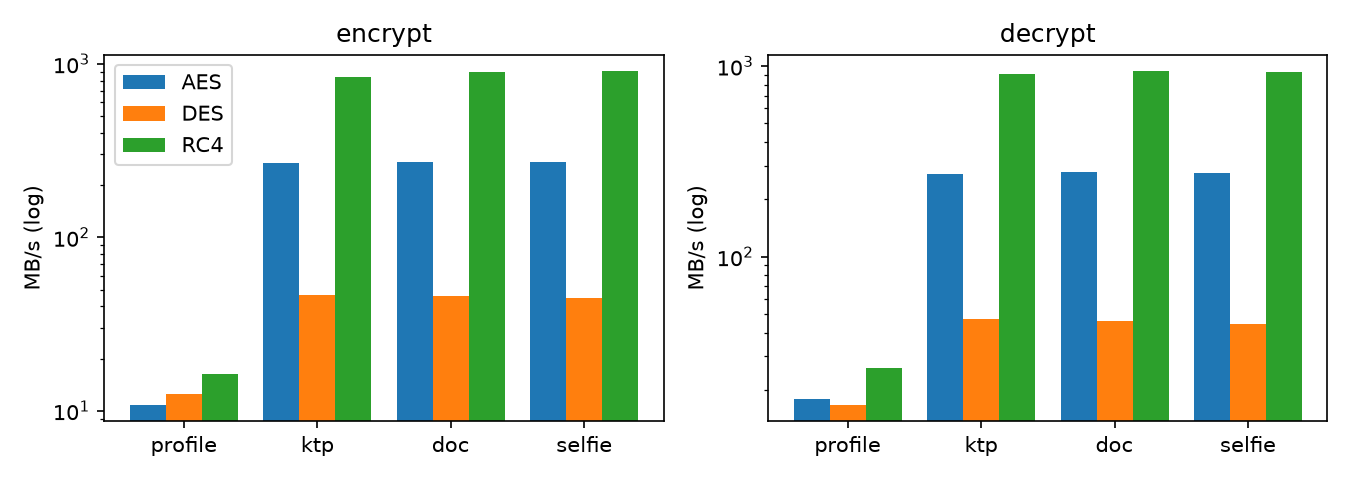
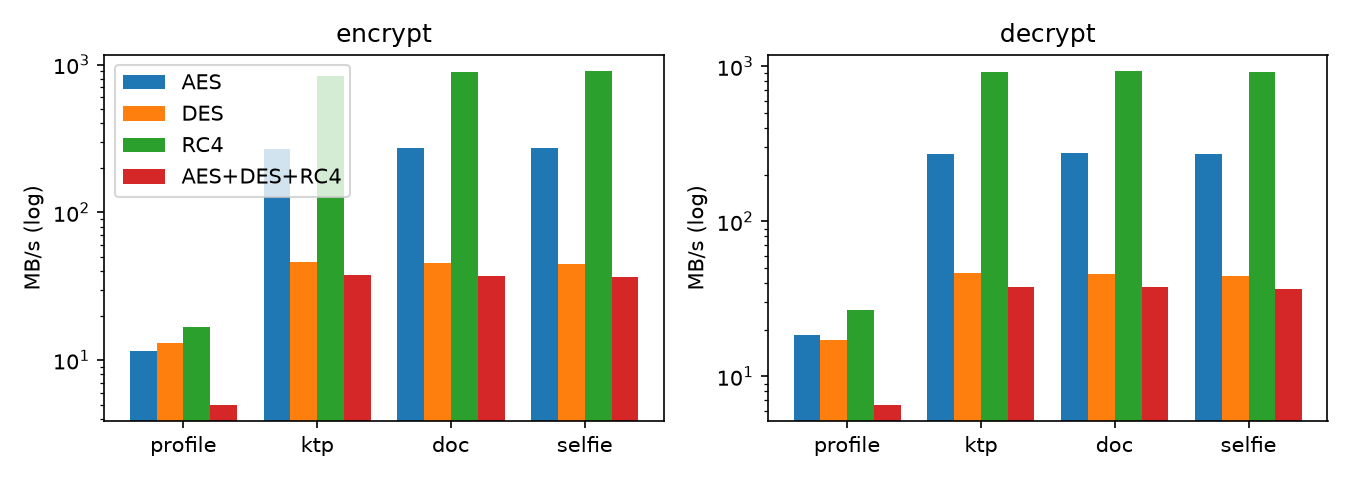
layered AES+DES+RC4 mode with tests and   benchmark to really see the differences

diff --git a/BE/ciphers.py b/BE/ciphers.py
@@ -3,6 +3,8 @@ Encrypt and decrypt data with AES, DES or RC4.
 
 Every encrypted blob looks like this:
     magic | cipher_id | salt | iv/nonce | ciphertext | tag
+A layered blob (e.g. "aes+des+rc4") wraps one blob inside the next:
+    magic_layered | layer_count | outer blob( ... inner blob(data) )
 
 Each object gets its own key, made from MASTER_KEY and a random salt.
 The tag also covers user_id and purpose, so a blob copied to another
@@ -18,6 +20,8 @@ from Crypto.Hash import SHA256
 from Crypto.Random import get_random_bytes
 
 MAGIC = b"\xc5\x01"
+MAGIC_LAYERED = b"\xc5\x02"  # blob made of several ciphers on top of each other
+MAX_LAYERS = 8
 SALT_LEN = 16
 HEADER_FIXED = len(MAGIC) + 1 + SALT_LEN
 
@@ -112,7 +116,7 @@ CIPHERS = {c.name: c for c in (AesGcm, DesCtr, Rc4Drop)}
 _BY_ID = {c.id: c for c in CIPHERS.values()}
 
 
-def encrypt(cipher: str, data: bytes, *, user_id: int, purpose: str) -> bytes:
+def _encrypt_one(cipher: str, data: bytes, user_id: int, purpose: str) -> bytes:
     c = CIPHERS[cipher]
     salt, iv = get_random_bytes(SALT_LEN), get_random_bytes(c.iv_len)
     header = MAGIC + bytes([c.id]) + salt + iv
@@ -121,7 +125,7 @@ def encrypt(cipher: str, data: bytes, *, user_id: int, purpose: str) -> bytes:
     return header + ct + tag
 
 
-def decrypt(blob: bytes, *, user_id: int, purpose: str) -> bytes:
+def _decrypt_one(blob: bytes, user_id: int, purpose: str) -> bytes:
     if len(blob) < HEADER_FIXED + 1 or blob[:2] != MAGIC or blob[2] not in _BY_ID:
         raise IntegrityError("Unknown blob format")
     c = _BY_ID[blob[2]]
@@ -134,7 +138,32 @@ def decrypt(blob: bytes, *, user_id: int, purpose: str) -> bytes:
     return c.decrypt(key, iv, _aad(header, user_id, purpose), ct, tag)
 
 
+def encrypt(cipher: str, data: bytes, *, user_id: int, purpose: str) -> bytes:
+    """cipher is one name ("aes") or layers joined by "+" ("aes+des+rc4", first = innermost)."""
+    if "+" not in cipher:
+        return _encrypt_one(cipher, data, user_id, purpose)
+    names = cipher.split("+")
+    blob = data
+    for i, name in enumerate(names):
+        blob = _encrypt_one(name, blob, user_id, f"{purpose}|layer{i}of{len(names)}")
+    return MAGIC_LAYERED + bytes([len(names)]) + blob
+
+
+def decrypt(blob: bytes, *, user_id: int, purpose: str) -> bytes:
+    if blob[:2] != MAGIC_LAYERED:
+        return _decrypt_one(blob, user_id, purpose)
+    if len(blob) < 4 or not 1 <= blob[2] <= MAX_LAYERS:
+        raise IntegrityError("Bad layer count")
+    n, data = blob[2], blob[3:]
+    # Each layer's label contains its position and the total, so a changed count fails here.
+    for i in reversed(range(n)):
+        data = _decrypt_one(data, user_id, f"{purpose}|layer{i}of{n}")
+    return data
+
+
 def overhead(cipher: str, plain_len: int) -> int:
-    """Extra bytes added to the data (header + tag)."""
+    """Extra bytes added to the data (headers + tags)."""
+    if "+" in cipher:
+        return len(MAGIC_LAYERED) + 1 + sum(overhead(n, 0) for n in cipher.split("+"))
     c = CIPHERS[cipher]
     return HEADER_FIXED + c.iv_len + c.tag_len

diff --git a/bench/benchmark.py b/bench/benchmark.py
@@ -24,7 +24,7 @@ import ciphers  # noqa: E402
 
 OBJECTS = [("profile_1KB", 1_000), ("ktp_500KB", 500_000), ("office_doc_2MB", 2_000_000),
            ("selfie_video_20MB", 20_000_000)]
-NAMES = ["aes", "des", "rc4"]
+NAMES = ["aes", "des", "rc4", "aes+des+rc4"]  # last one = layered
 
 
 def make(kind, n):
@@ -156,6 +156,22 @@ def main():
                sum(get("random", o, c, "decrypt")["median_ms"] for o, _ in OBJECTS)) for c in NAMES}
     for c in NAMES:
         L.append(f"| {c.upper()} | {tot[c][0]:.0f} | {tot[c][1]:.0f} | {tot[c][0] / tot['aes'][0]:.2f}x |")
+    # Side by side: the three ways to protect one registration.
+    kinds = [o for o, _ in OBJECTS]
+    per_type = dict(zip(kinds, ["aes", "des", "rc4", "aes"]))
+    plans = [("All AES", dict.fromkeys(kinds, "aes"), "AES"),
+             ("One cipher per data type (default)", per_type, "DES (the KTP)"),
+             ("Layered AES+DES+RC4 on everything", dict.fromkeys(kinds, "aes+des+rc4"),
+              "all three, attacker must break each layer")]
+    L.append("\n## Side by side: one registration (profile + KTP + doc + video), random content\n")
+    L.append("| Setup | Encrypt ms | Decrypt ms | vs all-AES | Extra bytes | Weakest protection of any item |")
+    L.append("|---|---|---|---|---|---|")
+    base = sum(get("random", o, "aes", "encrypt")["median_ms"] for o in kinds)
+    for title, plan, weakest in plans:
+        e = sum(get("random", o, plan[o], "encrypt")["median_ms"] for o in kinds)
+        d = sum(get("random", o, plan[o], "decrypt")["median_ms"] for o in kinds)
+        extra = sum(get("random", o, plan[o], "encrypt")["overhead_bytes"] for o in kinds)
+        L.append(f"| {title} | {e:.0f} | {d:.0f} | {e / base:.1f}x | {extra} | {weakest} |")
     L.append("\n## Random vs repetitive content (selfie_video_20MB, encrypt, median ms)\n")
     L.append("| Cipher | Random | Repetitive | Difference |")
     L.append("|---|---|---|---|")
@@ -176,10 +192,10 @@ def main():
         fig, ax = plt.subplots(1, 2, figsize=(9, 3.2))
         for i, op in enumerate(("encrypt", "decrypt")):
             for j, c in enumerate(NAMES):
-                ax[i].bar([k + j * 0.27 for k in range(len(OBJECTS))],
+                ax[i].bar([k + j * 0.2 for k in range(len(OBJECTS))],
                           [get("random", o, c, op)["throughput_MBps"] for o, _ in OBJECTS],
-                          0.27, label=c.upper())
-            ax[i].set_xticks([k + 0.27 for k in range(len(OBJECTS))])
+                          0.2, label=c.upper())
+            ax[i].set_xticks([k + 0.3 for k in range(len(OBJECTS))])
             ax[i].set_xticklabels([o.split("_")[0] if o != "office_doc_2MB" else "doc" for o, _ in OBJECTS])
             ax[i].set_yscale("log"); ax[i].set_ylabel("MB/s (log)"); ax[i].set_title(op)
         ax[0].legend()

diff --git a/tests/test_ciphers.py b/tests/test_ciphers.py
@@ -77,5 +77,46 @@ class Tamper(unittest.TestCase):
             os.environ["MASTER_KEY"] = "test-master-key"
 
 
+class Layered(unittest.TestCase):
+    LAYERS = ["aes+des+rc4", "rc4+des+aes", "aes+rc4"]
+
+    def test_roundtrip_and_size(self):
+        for layers in self.LAYERS:
+            for n in (0, 1, 17, 1000, 100_000):
+                data = os.urandom(n)
+                blob = ciphers.encrypt(layers, data, user_id=1, purpose="ktp")
+                self.assertEqual(ciphers.decrypt(blob, user_id=1, purpose="ktp"), data, (layers, n))
+                self.assertEqual(len(blob), n + ciphers.overhead(layers, n), (layers, n))
+
+    def test_no_plaintext_and_random_each_time(self):
+        data = b"NIK=3578012345670001 Budi Santoso " * 20
+        a = ciphers.encrypt("aes+des+rc4", data, user_id=1, purpose="profile")
+        b = ciphers.encrypt("aes+des+rc4", data, user_id=1, purpose="profile")
+        self.assertNotEqual(a, b)
+        self.assertNotIn(b"3578012345670001", a)
+
+    def test_every_bit_flip_rejected(self):
+        blob = ciphers.encrypt("aes+des+rc4", os.urandom(100), user_id=1, purpose="ktp")
+        for i in range(len(blob)):
+            bad = bytearray(blob)
+            bad[i] ^= 0x01
+            with self.assertRaises(ciphers.IntegrityError, msg=i):
+                ciphers.decrypt(bytes(bad), user_id=1, purpose="ktp")
+
+    def test_bound_to_user_and_purpose(self):
+        blob = ciphers.encrypt("aes+des+rc4", b"secret", user_id=1, purpose="ktp")
+        for uid, purpose in ((2, "ktp"), (1, "selfie_video")):
+            with self.assertRaises(ciphers.IntegrityError):
+                ciphers.decrypt(blob, user_id=uid, purpose=purpose)
+
+    def test_changed_layer_count_is_detected(self):
+        # Claiming 2 layers (or 1, or 4) on a 3-layer blob must fail, not return inner data.
+        blob = ciphers.encrypt("aes+des+rc4", b"secret", user_id=1, purpose="ktp")
+        for n in (1, 2, 4):
+            forged = ciphers.MAGIC_LAYERED + bytes([n]) + blob[3:]
+            with self.assertRaises(ciphers.IntegrityError, msg=n):
+                ciphers.decrypt(forged, user_id=1, purpose="ktp")
+
+
 if __name__ == "__main__":
     unittest.main()

diff --git a/BE/Hooks.py b/BE/Hooks.py
@@ -4,13 +4,15 @@ Each data type has its own cipher (see POLICY). Reasons: docs/CRYPTO_DESIGN.md s
 
 Env options:
   CIPHER=aes|des|rc4          use one cipher for everything
-  CIPHER_POLICY=ktp=aes,...   change the cipher of single data types
+  CIPHER=layered              encrypt everything with AES, then DES, then RC4 (all three)
+  CIPHER_POLICY=ktp=aes,...   change the cipher of single data types ("aes+des" = layers)
 """
 import os
 
 import ciphers
 
 PURPOSES = ("profile", "ktp", "supporting_doc", "selfie_video")
+LAYERED = "aes+des+rc4"
 
 POLICY = {
     "profile": "aes",
@@ -29,7 +31,9 @@ def _load_policy() -> dict:
     if forced:
         policy = dict.fromkeys(PURPOSES, forced)
     for purpose, name in policy.items():
-        if purpose not in PURPOSES or name not in ciphers.CIPHERS:
+        name = LAYERED if name == "layered" else name
+        policy[purpose] = name
+        if purpose not in PURPOSES or not all(n in ciphers.CIPHERS for n in name.split("+")):
             raise RuntimeError(f"Bad cipher policy {purpose}={name}; "
                                f"purposes {PURPOSES}, ciphers {sorted(ciphers.CIPHERS)}")
     return policy

diff --git a/tests/test_app_e2e.py b/tests/test_app_e2e.py
@@ -85,6 +85,7 @@ class E2E(unittest.TestCase):
             profile_blob, cipher = conn.execute("SELECT profile, cipher FROM users").fetchone()
             self.assertEqual((ciphers._BY_ID[profile_blob[2]].name, cipher), ("aes", "aes"))
 
+    def test_layered(self): self.run_cipher("layered")
     def test_aes(self): self.run_cipher("aes")
     def test_des(self): self.run_cipher("des")
     def test_rc4(self): self.run_cipher("rc4")

diff --git a/bench/results.md b/bench/results.md
@@ -6,38 +6,52 @@ Environment: Python 3.14.3, Darwin arm64, arm, pycryptodome. Runs: 30 (+3 warm-u
 
 | Object | Cipher | Encrypt ms | Decrypt ms | MB/s (enc) | MB/s (dec) | Overhead B | Peak mem (x size) |
 |---|---|---|---|---|---|---|---|
-| profile_1KB | AES | 0.09 [0.01] | 0.06 [0.00] | 11 | 18 | 47 | 29.4 |
-| profile_1KB | DES | 0.08 [0.01] | 0.06 [0.00] | 13 | 17 | 55 | 16.8 |
-| profile_1KB | RC4 | 0.06 [0.00] | 0.04 [0.00] | 16 | 26 | 51 | 26.7 |
-| ktp_500KB | AES | 1.86 [0.09] | 1.84 [0.06] | 268 | 271 | 47 | 3.0 |
-| ktp_500KB | DES | 10.74 [0.27] | 10.66 [0.26] | 47 | 47 | 55 | 3.0 |
-| ktp_500KB | RC4 | 0.59 [0.02] | 0.55 [0.02] | 844 | 913 | 51 | 3.0 |
-| office_doc_2MB | AES | 7.33 [0.20] | 7.23 [0.16] | 273 | 277 | 47 | 3.0 |
-| office_doc_2MB | DES | 43.52 [0.91] | 43.52 [0.64] | 46 | 46 | 55 | 3.0 |
-| office_doc_2MB | RC4 | 2.23 [0.06] | 2.13 [0.04] | 896 | 940 | 51 | 3.0 |
-| selfie_video_20MB | AES | 73.64 [0.56] | 73.12 [0.57] | 272 | 274 | 47 | 3.0 |
-| selfie_video_20MB | DES | 448.67 [3.78] | 448.39 [4.78] | 45 | 45 | 55 | 3.0 |
-| selfie_video_20MB | RC4 | 22.07 [0.27] | 21.45 [0.27] | 906 | 933 | 51 | 3.0 |
+| profile_1KB | AES | 0.09 [0.01] | 0.05 [0.00] | 11 | 19 | 47 | 29.3 |
+| profile_1KB | DES | 0.08 [0.00] | 0.06 [0.00] | 13 | 17 | 55 | 16.8 |
+| profile_1KB | RC4 | 0.06 [0.00] | 0.04 [0.00] | 17 | 27 | 51 | 26.7 |
+| profile_1KB | AES+DES+RC4 | 0.20 [0.01] | 0.15 [0.01] | 5 | 7 | 156 | 46.1 |
+| ktp_500KB | AES | 1.87 [0.08] | 1.85 [0.06] | 268 | 271 | 47 | 3.0 |
+| ktp_500KB | DES | 10.81 [0.27] | 10.74 [0.26] | 46 | 47 | 55 | 3.0 |
+| ktp_500KB | RC4 | 0.60 [0.03] | 0.54 [0.01] | 834 | 918 | 51 | 3.0 |
+| ktp_500KB | AES+DES+RC4 | 13.33 [0.36] | 13.15 [0.24] | 38 | 38 | 156 | 4.1 |
+| office_doc_2MB | AES | 7.34 [0.15] | 7.28 [0.17] | 273 | 275 | 47 | 3.0 |
+| office_doc_2MB | DES | 43.86 [0.84] | 43.73 [0.67] | 46 | 46 | 55 | 3.0 |
+| office_doc_2MB | RC4 | 2.24 [0.04] | 2.15 [0.04] | 892 | 931 | 51 | 3.0 |
+| office_doc_2MB | AES+DES+RC4 | 53.57 [1.13] | 53.36 [0.75] | 37 | 37 | 156 | 4.0 |
+| selfie_video_20MB | AES | 73.78 [0.66] | 73.21 [0.54] | 271 | 273 | 47 | 3.0 |
+| selfie_video_20MB | DES | 448.13 [2.82] | 448.37 [3.12] | 45 | 45 | 55 | 3.0 |
+| selfie_video_20MB | RC4 | 22.17 [0.25] | 21.60 [0.27] | 902 | 926 | 51 | 3.0 |
+| selfie_video_20MB | AES+DES+RC4 | 546.09 [8.13] | 543.53 [3.27] | 37 | 37 | 156 | 4.0 |
 
 ## One registration (profile + KTP + doc + video), random content
 
 | Cipher | Total encrypt ms | Total decrypt ms | vs AES (enc) |
 |---|---|---|---|
 | AES | 83 | 82 | 1.00x |
-| DES | 503 | 503 | 6.07x |
+| DES | 503 | 503 | 6.05x |
 | RC4 | 25 | 24 | 0.30x |
+| AES+DES+RC4 | 613 | 610 | 7.38x |
+
+## Side by side: one registration (profile + KTP + doc + video), random content
+
+| Setup | Encrypt ms | Decrypt ms | vs all-AES | Extra bytes | Weakest protection of any item |
+|---|---|---|---|---|---|
+| All AES | 83 | 82 | 1.0x | 188 | AES |
+| One cipher per data type (default) | 87 | 86 | 1.0x | 200 | DES (the KTP) |
+| Layered AES+DES+RC4 on everything | 613 | 610 | 7.4x | 624 | all three, attacker must break each layer |
 
 ## Random vs repetitive content (selfie_video_20MB, encrypt, median ms)
 
 | Cipher | Random | Repetitive | Difference |
 |---|---|---|---|
-| AES | 73.6 | 74.1 | 0.6% |
-| DES | 448.7 | 451.2 | 0.6% |
-| RC4 | 22.1 | 22.1 | 0.1% |
+| AES | 73.8 | 74.2 | 0.5% |
+| DES | 448.1 | 450.9 | 0.6% |
+| RC4 | 22.2 | 22.3 | 0.7% |
+| AES+DES+RC4 | 546.1 | 547.7 | 0.3% |
 
 HKDF key derivation per object: median 19 us, independent of size.
 
 ## RC4 keystream bias (2nd byte = 0, multiple of the ideal 1/256)
 
-- No drop: 1.94x (ideal 1.00x, theory ~2x)
-- Drop 3072: 1.01x
+- No drop: 2.08x (ideal 1.00x, theory ~2x)
+- Drop 3072: 1.00x
